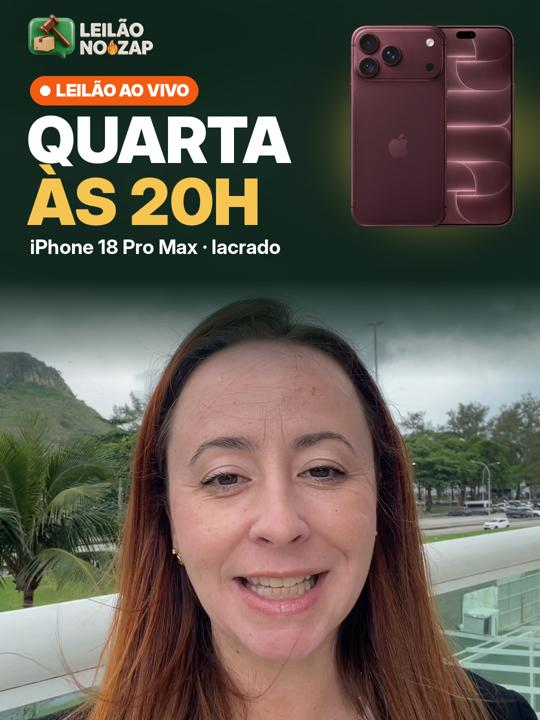
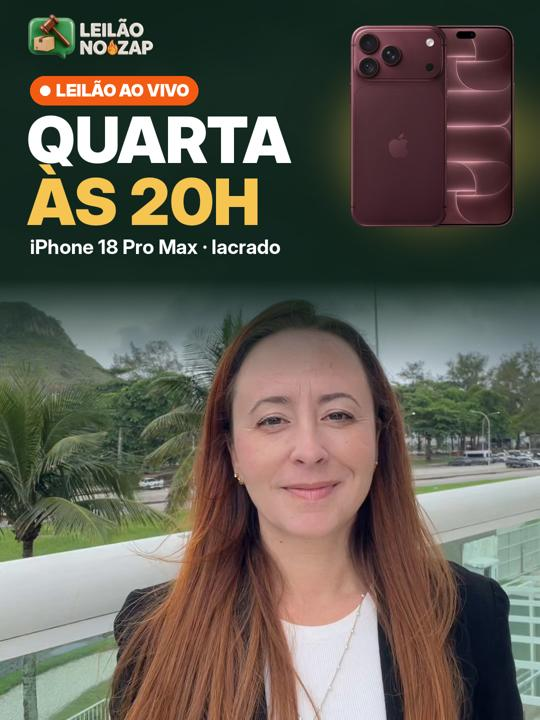
Capa do reel iPhone 18: foto de longe, do começo do vídeo
Claude-Session: https://claude.ai/code/session_01JihU9VfVTYTrMqQpApFEjH

diff --git a/marketing/videos/2026-11-09-natalia-iphone18-quarta/fonte/capa.py b/marketing/videos/2026-11-09-natalia-iphone18-quarta/fonte/capa.py
@@ -8,7 +8,7 @@ IPH = '/home/user/Leil-onozaplivoo/marketing/semana-2026-11-09/quarta-11-11-ipho
 F = lambda p, t: ImageFont.truetype(f'/usr/share/fonts/opentype/inter/InterDisplay-{p}.otf', t)
 W, H = 1080, 1920; OURO=(245,196,81); FOGO=(243,91,18); BR=(255,255,255); PROB = []
 fr = Image.open(QUADRO).convert('RGB').resize((W, H))
-DESCE = 300                                                  # abaixa a Natália para o texto caber sem cobrir o rosto
+DESCE = int(sys.argv[3]) if len(sys.argv) > 3 else 300   # abaixa a pessoa para o texto caber sem cobrir o rosto
 im = Image.new('RGB', (W, H)); im.paste(fr, (0, DESCE))
 topo = fr.crop((0, 0, W, DESCE)).transpose(Image.FLIP_TOP_BOTTOM).filter(ImageFilter.GaussianBlur(18)); im.paste(topo, (0, 0))
 im = im.convert('RGBA'); g = Image.new('RGBA', (W, H)); gd = ImageDraw.Draw(g)
@@ -33,4 +33,4 @@ b2 = txt((60, 748), 'iPhone 18 Pro Max · lacrado', F('Bold', 40), BR)
 im.convert('RGB').save(f'{OUT}/CAPA-reel-iphone18-quarta.jpg', quality=93)
 im.convert('RGB').crop((0, 240, 1080, 1680)).resize((540, 720)).save(f'{OUT}/fonte/previa-capa-grid.jpg')
 if PROB: print('PROBLEMAS', PROB); sys.exit(1)
-print('ok; texto até', b2[3], '; rosto começa ~', 480+30+DESCE)
+print('ok; texto até', b2[3])
